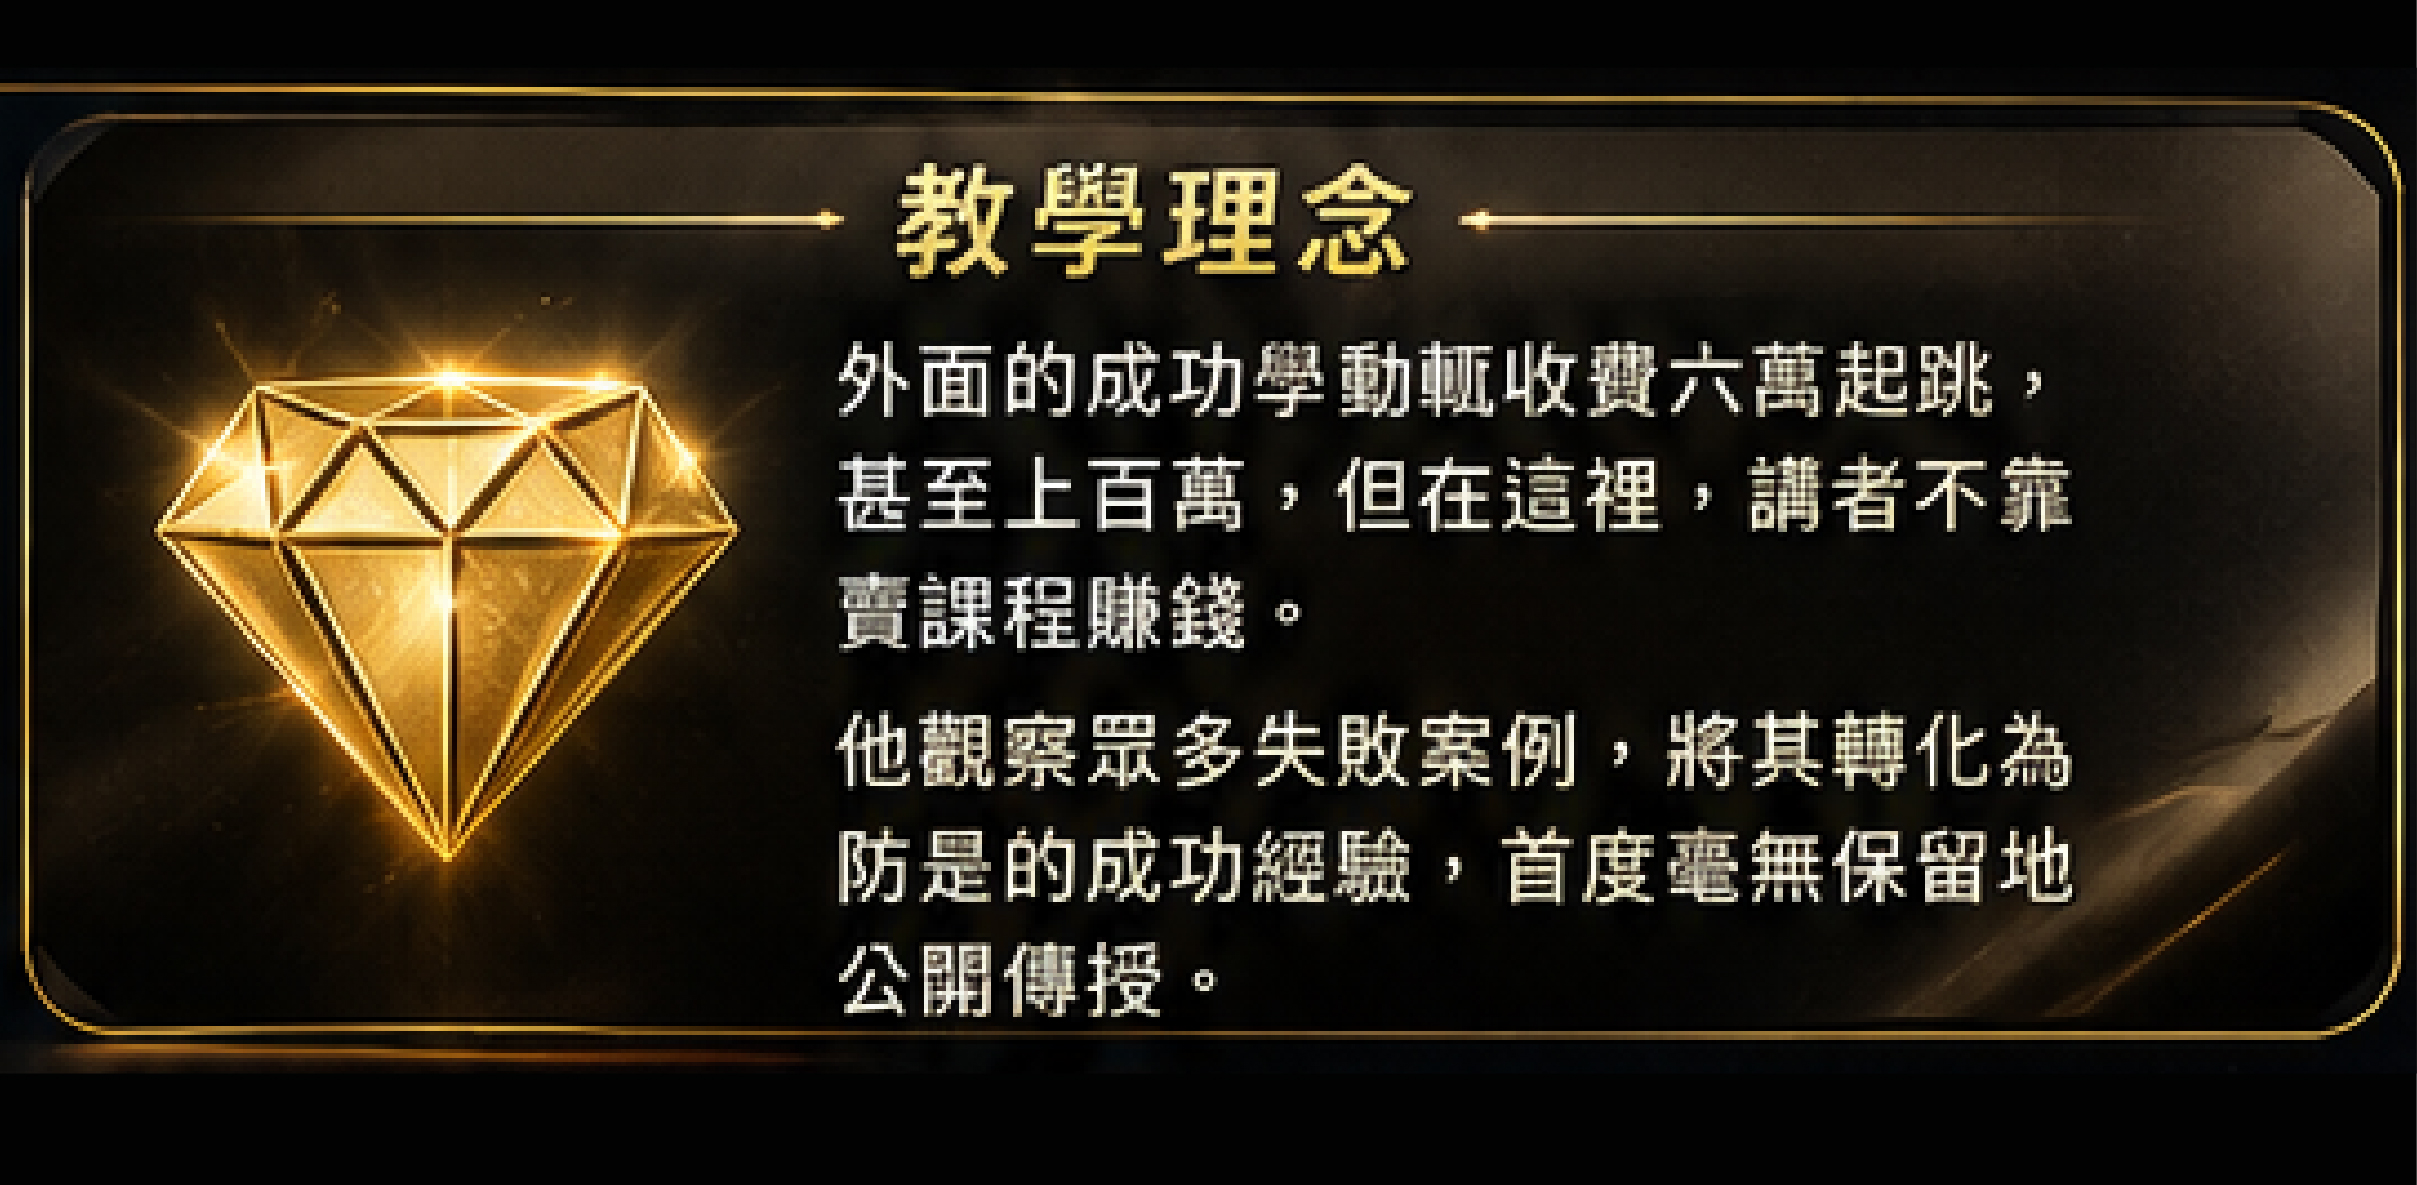
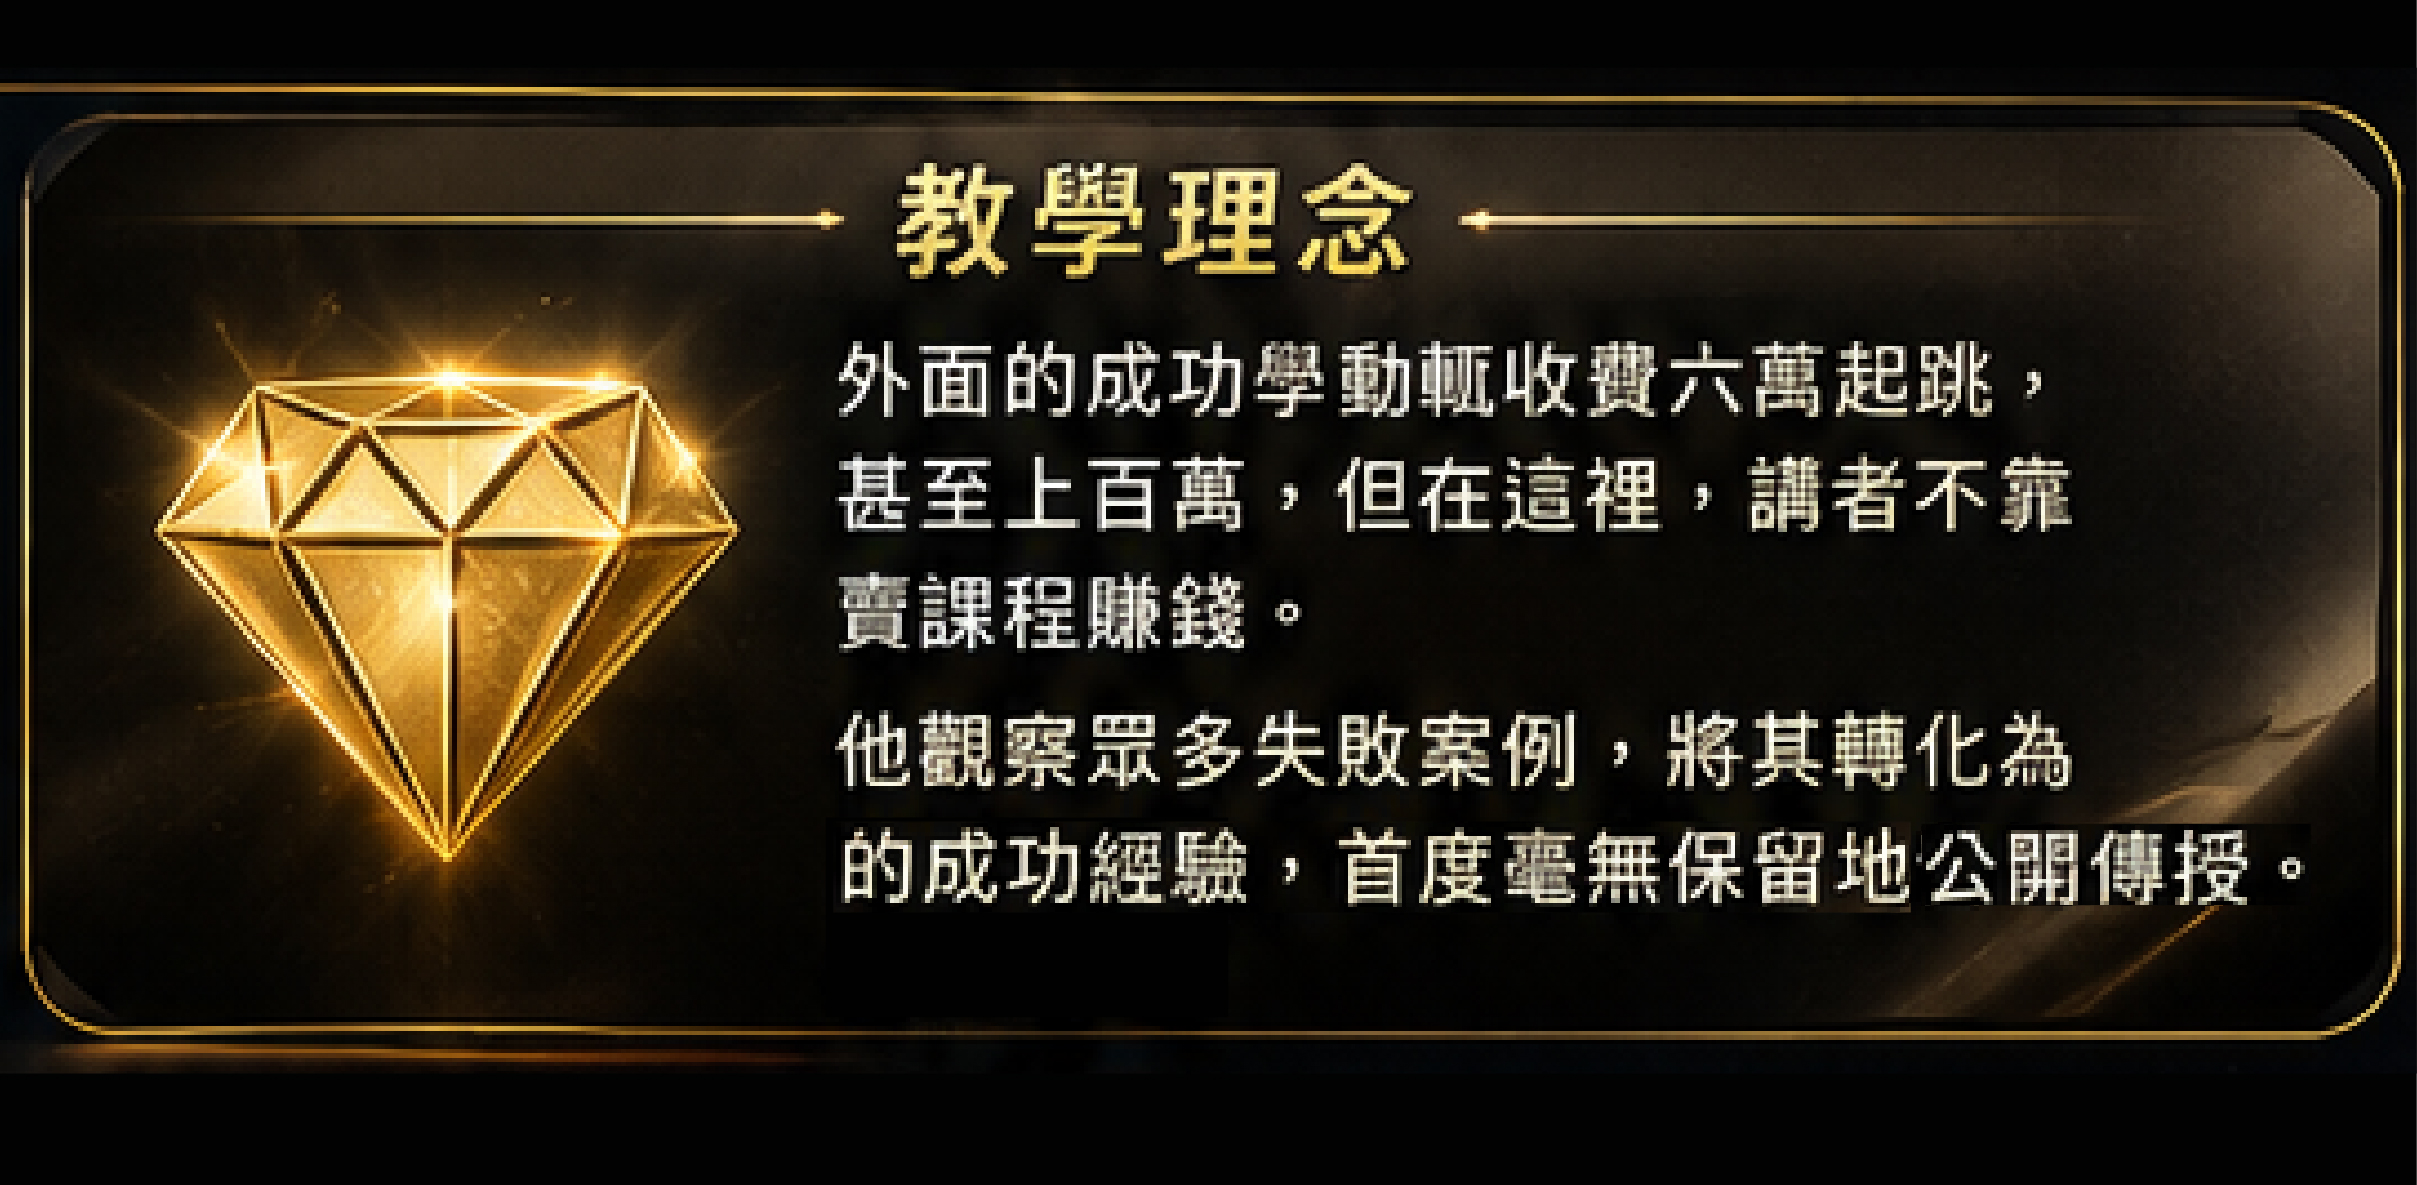
Update landing images and replace top8.png with compressed top8.jpg.
Refresh top/top2/top5 assets, compress social preview top.jpg, and switch top8 to JPG for faster loading.

Changed region(s): [[0.3413, 0.6869, 0.9619, 0.8743]]

diff --git a/index.html b/index.html
@@ -10,8 +10,8 @@
     <meta property="og:title" content="直球對決 - 與你見面，見證人生的改變">
     <meta property="og:description" content="限時優惠！直球對決，前100名無需付費，原價NT$2000元，現在報名免費！">
     <meta property="og:url" content="https://ifittw01-ai.github.io/Direct/">
-    <meta property="og:image" content="https://ifittw01-ai.github.io/Direct/data/top.jpg?v=20260707b">
-    <meta property="og:image:secure_url" content="https://ifittw01-ai.github.io/Direct/data/top.jpg?v=20260707b">
+    <meta property="og:image" content="https://ifittw01-ai.github.io/Direct/data/top.jpg?v=20260709">
+    <meta property="og:image:secure_url" content="https://ifittw01-ai.github.io/Direct/data/top.jpg?v=20260709">
     <meta property="og:image:type" content="image/jpeg">
     <meta property="og:image:width" content="1200">
     <meta property="og:image:height" content="630">
@@ -21,13 +21,13 @@
     <meta name="line:card" content="summary_large_image">
     <meta name="line:title" content="直球對決 - 與你見面，見證人生的改變">
     <meta name="line:description" content="限時優惠！直球對決，前100名無需付費，原價NT$2000元，現在報名免費！">
-    <meta name="line:image" content="https://ifittw01-ai.github.io/Direct/data/top.jpg?v=20260707b">
+    <meta name="line:image" content="https://ifittw01-ai.github.io/Direct/data/top.jpg?v=20260709">
     
     <!-- Twitter Card -->
     <meta name="twitter:card" content="summary_large_image">
     <meta name="twitter:title" content="直球對決 - 與你見面，見證人生的改變">
     <meta name="twitter:description" content="限時優惠！直球對決，前100名無需付費，原價NT$2000元，現在報名免費！">
-    <meta name="twitter:image" content="https://ifittw01-ai.github.io/Direct/data/top.jpg?v=20260707b">
+    <meta name="twitter:image" content="https://ifittw01-ai.github.io/Direct/data/top.jpg?v=20260709">
     
     <!-- Canonical URL -->
     <link rel="canonical" href="https://ifittw01-ai.github.io/Direct/">
@@ -270,7 +270,7 @@
     <img src="data/top5.jpg" alt="直球對決" class="video-below-image" loading="lazy" width="1200" height="630">
     <img src="data/top6.jpg" alt="直球對決" class="video-below-image" loading="lazy" width="1200" height="630">
     <img src="data/top7.jpg" alt="直球對決" class="video-below-image" loading="lazy" width="1200" height="630">
-    <img src="data/top8.png" alt="直球對決" class="video-below-image" loading="lazy" width="1200" height="630">
+    <img src="data/top8.jpg" alt="直球對決" class="video-below-image" loading="lazy" width="1200" height="630">
     
     
     

diff --git a/translations.js b/translations.js
@@ -464,7 +464,7 @@ function updateSocialMediaImage(lang) {
     
     const imageName = 'top.jpg';
     const baseUrl = 'https://ifittw01-ai.github.io/Direct/data/';
-    const cacheBust = '?v=20260707b';
+    const cacheBust = '?v=20260709';
     const imageUrl = baseUrl + imageName + cacheBust;
     
     // 更新 Open Graph 圖片（Facebook、LINE 等會讀取）